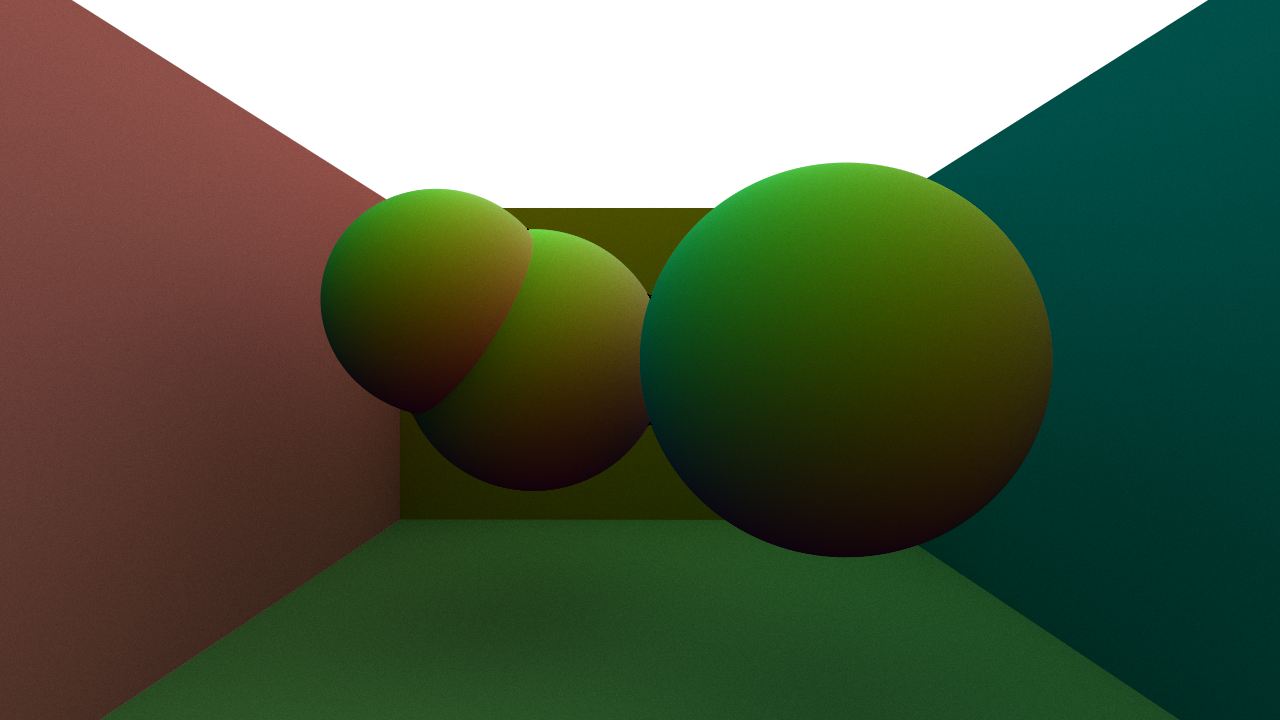
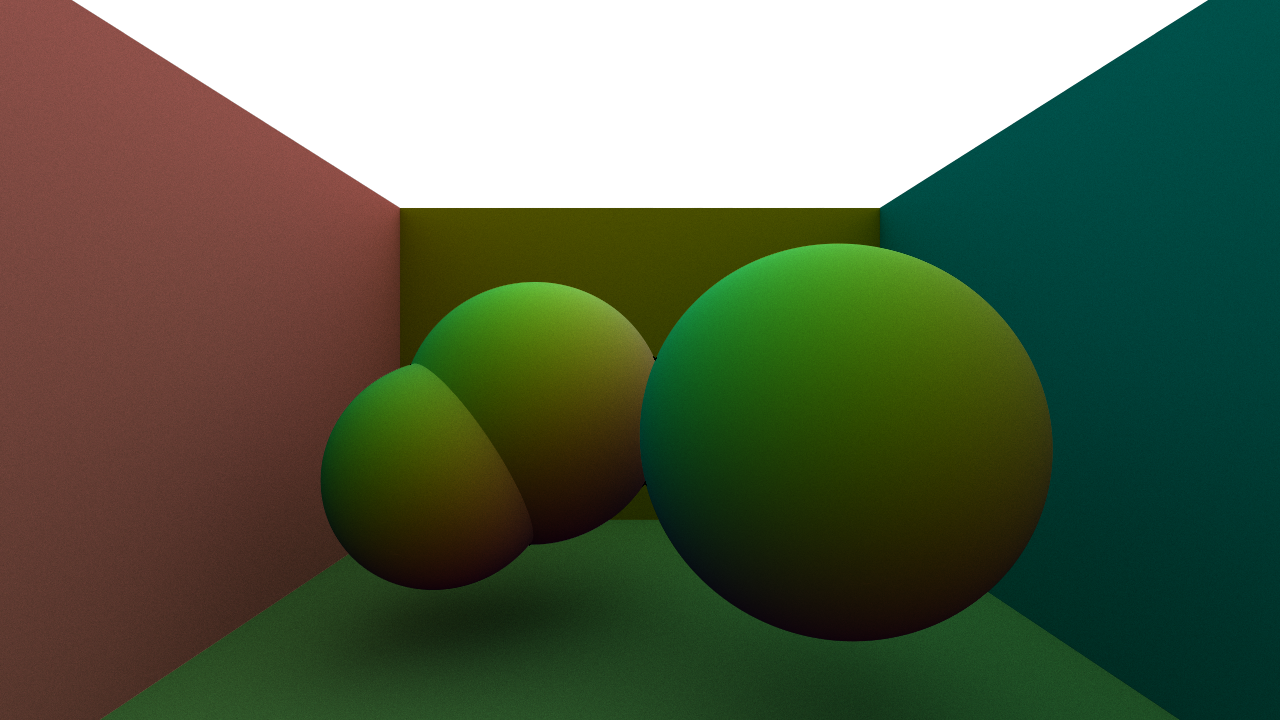
Change scene

Changed region(s): [[0.25, 0.2139, 0.8438, 0.9167]]

diff --git a/kernels/compute/src/lib.rs b/kernels/compute/src/lib.rs
@@ -30,11 +30,11 @@ pub fn main_raygen(
 
 fn map(p: Vec3) -> f32 {
     // metaball
-    let mut d = (p + vec3(0.4, 0.0, -0.5)).length() - 0.5;
-    d = d.min((p + vec3(0.7, -0.2, -0.3)).length() - 0.4);
+    let mut d = (p - vec3(-0.4, -0.2, 0.5)).length() - 0.5;
+    d = d.min((p - vec3(-0.7, -0.4, 0.3)).length() - 0.4);
 
     // ball
-    d = d.min((p + Vec3::new(-0.5, 0.0, 0.3)).length() - 0.5);
+    d = d.min((p - Vec3::new(0.5, -0.2, -0.3)).length() - 0.5);
 
     // walls
     d = d.min((p.y+1.0).abs());
